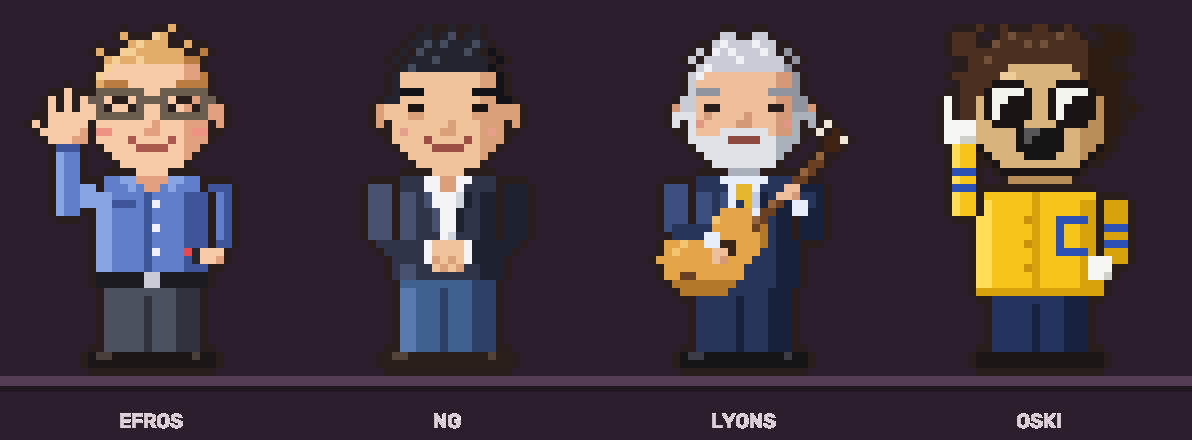
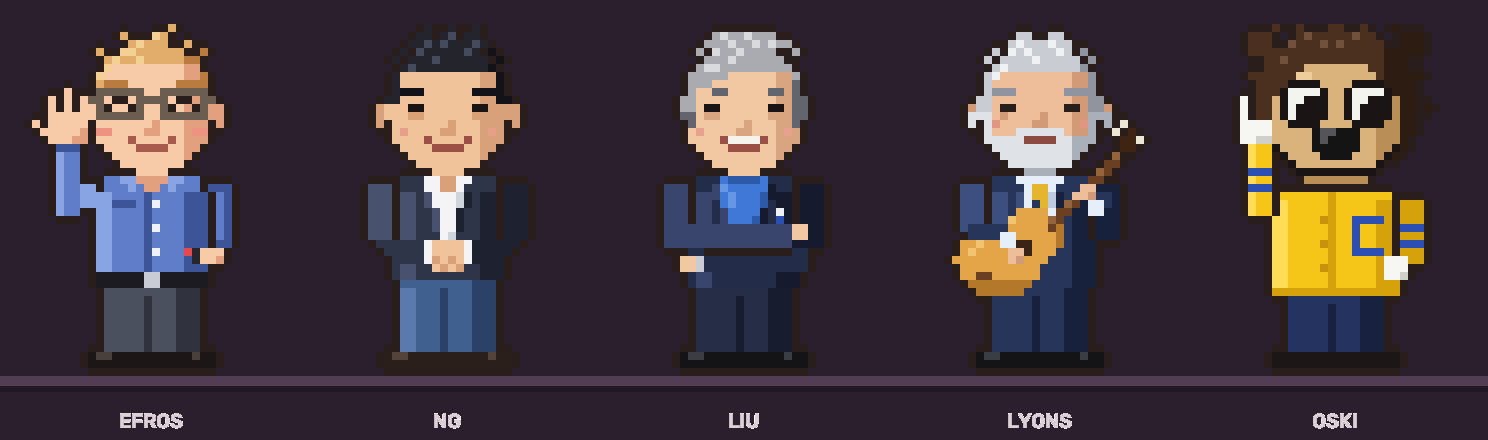
Add Dean Tsu-Jae King Liu as a character
Retro pixel sprite with front, left and right views: short silver-gray
hair swept to one side, warm smile, navy blazer over a blue crew-neck
with a lapel pin, silver watch, arms crossed. Added to the roster sheet.

Claude-Session: https://claude.ai/code/session_01E54XCSpxq55gqKhVJqvj2W

diff --git a/assets/characters/liu/make_sprite.py b/assets/characters/liu/make_sprite.py
@@ -1,0 +1,164 @@
+"""Dean Tsu-Jae King Liu as a retro pixel sprite.
+
+Owner: Person 4.
+
+    python assets/characters/liu/make_sprite.py
+
+Look: short silver-gray hair swept to one side, darker underneath, a warm
+smile, navy blazer over a bright blue crew-neck with a lapel pin, silver
+watch. Pose: arms crossed. See ../pixel_sprite.py for the shared toolkit and
+outputs.
+"""
+
+from pathlib import Path
+import sys
+
+sys.path.insert(0, str(Path(__file__).resolve().parent.parent))
+
+from pixel_sprite import Canvas, save  # noqa: E402
+
+PALETTE = {
+    "hair": "#a9abb0", "hair_light": "#d8dade", "hair_dark": "#62656d",
+    "skin": "#f1c8a2", "skin_shade": "#d9a580", "cheek": "#e9a08c",
+    "eye": "#1b1414", "mouth": "#9c4f45", "teeth": "#f6f3ee",
+    "blazer": "#232c48", "blazer_light": "#3a456d", "blazer_dark": "#151a2e",
+    "top": "#3f78d6", "top_light": "#6896e6", "top_dark": "#2c5aa8",
+    "pin": "#eef2f8", "pin_blue": "#2c4fb3", "watch": "#c9ccd4",
+    "pants": "#262d46", "pants_dark": "#171c2e",
+    "shoe": "#141416", "shoe_light": "#3c3c44",
+}
+
+
+def front() -> Canvas:
+    c = Canvas(PALETTE)
+
+    # Trousers and shoes
+    c.rect(10, 33, 15, 40, "pants")
+    c.rect(16, 33, 21, 40, "pants")
+    c.rect(19, 33, 21, 40, "pants_dark")
+    c.rect(15, 34, 15, 40, "pants_dark")
+    c.rect(8, 41, 15, 42, "shoe")
+    c.rect(16, 41, 23, 42, "shoe")
+    c.pixels("shoe_light", (9, 41), (10, 41), (21, 41))
+
+    # Blazer over a blue crew-neck
+    c.rect(9, 20, 22, 32, "blazer")
+    c.rect(10, 19, 21, 19, "blazer")
+    c.pixels(None, (9, 20), (22, 20))
+    c.rect(10, 21, 11, 32, "blazer_light")
+    c.rect(20, 21, 22, 32, "blazer_dark")
+    c.rect(13, 19, 18, 22, "top")
+    c.rect(14, 23, 17, 24, "top")
+    c.rect(15, 25, 16, 25, "top")
+    c.pixels("top_light", (13, 20), (14, 21), (14, 22))
+    c.pixels("top_dark", (18, 21), (18, 22), (17, 24))
+    c.pixels("top_dark", (14, 19), (15, 19), (16, 19), (17, 19))   # crew neck rib
+    c.pixels("blazer_light", (12, 20), (12, 21), (13, 23), (13, 24), (14, 25))   # lapels
+    c.pixels("blazer_dark", (19, 20), (19, 21), (18, 23), (18, 24), (17, 25))
+    c.pixels("pin", (20, 23))
+    c.pixels("pin_blue", (20, 24))
+
+    # Neck
+    c.rect(14, 17, 17, 18, "skin_shade")
+
+    # Head
+    c.ellipse(16, 10.5, 7.6, 8.2, "skin")
+    c.recolor(("skin",), "skin_shade", lambda x, y: x >= 20)
+
+    # Short hair with volume on top, swept toward the viewer's left
+    c.recolor(("skin", "skin_shade"), "hair",
+              lambda x, y: 8 <= x <= 23 and (y <= 5 or (y <= 12 and (x <= 9 or x >= 22))))
+    c.rect(11, 2, 21, 2, "hair")
+    c.rect(12, 1, 19, 1, "hair")
+    c.pixels("hair", (9, 6), (10, 6), (11, 6), (12, 6), (13, 6), (9, 7), (10, 7), (11, 7),
+             (10, 3), (22, 3))
+    c.recolor(("hair",), "hair_dark", lambda x, y: y >= 11 or (x >= 22 and y >= 7))
+    c.pixels("hair_light", (13, 1), (14, 2), (16, 1), (17, 2), (12, 3), (15, 3), (19, 2), (11, 5), (12, 5), (14, 4))
+
+    # Face: warm open smile
+    c.pixels("hair_dark", (12, 8), (13, 8), (19, 8), (20, 8))      # brows
+    c.pixels("eye", (11, 10), (12, 10), (19, 10), (20, 10))
+    c.pixels("skin_shade", (11, 11), (12, 11), (19, 11), (20, 11))
+    c.pixels("cheek", (10, 13), (21, 13))
+    c.pixels("skin_shade", (16, 12), (16, 13), (15, 13))             # nose
+    c.pixels("teeth", (14, 14), (15, 14), (16, 14), (17, 14))
+    c.pixels("mouth", (13, 14), (18, 14), (14, 15), (15, 15), (16, 15), (17, 15))
+
+    # Arms crossed
+    c.rect(6, 20, 8, 27, "blazer_light")
+    c.rect(23, 20, 25, 27, "blazer_dark")
+    c.rect(8, 25, 21, 27, "blazer_light")    # top forearm
+    c.rect(10, 28, 23, 30, "blazer")         # lower forearm
+    c.rect(22, 25, 23, 26, "skin")           # hand peeking out on the right
+    c.rect(8, 29, 9, 30, "skin")             # hand peeking out on the left
+    c.pixels("watch", (10, 29), (10, 30))
+
+    c.outline()
+    c.pixels("outline", *[(9, y) for y in range(21, 25)], *[(22, y) for y in range(21, 25)])
+    c.pixels("outline", *[(x, 28) for x in range(11, 22)])   # edge between the two forearms
+    return c
+
+
+def side() -> Canvas:
+    """Facing left."""
+    c = Canvas(PALETTE)
+
+    # Far arm and leg
+    c.rect(20, 21, 22, 28, "blazer_dark")
+    c.rect(16, 33, 20, 40, "pants_dark")
+    c.rect(13, 41, 20, 42, "shoe")
+
+    # Blazer and top
+    c.rect(11, 20, 20, 32, "blazer")
+    c.rect(12, 19, 19, 19, "blazer")
+    c.rect(19, 21, 20, 32, "blazer_dark")
+    c.rect(11, 19, 12, 24, "top")
+    c.pixels("top_dark", (12, 19), (12, 23), (12, 24))
+    c.rect(13, 20, 13, 25, "blazer_light")
+    c.pixels("pin", (14, 22))
+
+    # Near leg and shoe
+    c.rect(11, 33, 16, 40, "pants")
+    c.rect(16, 34, 16, 40, "pants_dark")
+    c.rect(8, 41, 16, 42, "shoe")
+    c.pixels("shoe_light", (9, 41), (10, 41))
+
+    # Neck
+    c.rect(15, 17, 18, 19, "skin_shade")
+
+    # Head in profile
+    c.ellipse(16.5, 10.5, 7.2, 8.2, "skin")
+    c.pixels("skin", (8, 11), (8, 12), (9, 13))                 # nose
+    c.recolor(("skin",), "skin_shade", lambda x, y: x >= 17 and y >= 14)
+    c.recolor(("skin", "skin_shade"), "hair",
+              lambda x, y: (x >= 17 and y <= 14) or (y <= 5 and x >= 10))
+    c.rect(12, 2, 21, 2, "hair")
+    c.rect(13, 1, 20, 1, "hair")
+    c.pixels("hair", (9, 5), (10, 5), (9, 6), (11, 3), (10, 4), (22, 3), (23, 4), (24, 12), (24, 13))
+    c.recolor(("hair",), "hair_dark", lambda x, y: y >= 12 or (x >= 23 and y >= 4))
+    c.pixels("hair_light", (13, 2), (15, 1), (16, 2), (18, 1), (12, 3), (14, 4), (17, 4), (10, 5),
+             (19, 6), (20, 8), (21, 6), (19, 10))
+
+    # Face
+    c.pixels("hair_dark", (10, 8), (11, 8))
+    c.pixels("eye", (10, 10), (11, 10))
+    c.pixels("skin_shade", (10, 11), (11, 11))
+    c.pixels("cheek", (12, 13))
+    c.pixels("teeth", (9, 14), (10, 14))
+    c.pixels("mouth", (9, 15), (10, 15), (11, 14))
+
+    # Near arm folded across the chest
+    c.rect(14, 20, 17, 25, "blazer")
+    c.rect(14, 20, 14, 25, "blazer_light")
+    c.rect(9, 25, 17, 28, "blazer")
+    c.rect(9, 25, 16, 25, "blazer_light")
+    c.rect(8, 26, 8, 27, "skin")
+    c.pixels("watch", (10, 28))
+
+    c.outline()
+    c.pixels("outline", *[(18, y) for y in range(21, 25)])
+    return c
+
+
+if __name__ == "__main__":
+    save(Path(__file__).resolve().parent, front(), side())

diff --git a/assets/characters/make_roster.py b/assets/characters/make_roster.py
@@ -14,7 +14,7 @@ import cv2
 from pixel_sprite import preview
 
 HERE = Path(__file__).resolve().parent
-ROSTER = {"efros": "Efros", "ng": "Ng", "lyons": "Lyons", "oski": "Oski"}
+ROSTER = {"efros": "Efros", "ng": "Ng", "liu": "Liu", "lyons": "Lyons", "oski": "Oski"}
 
 
 def main():
